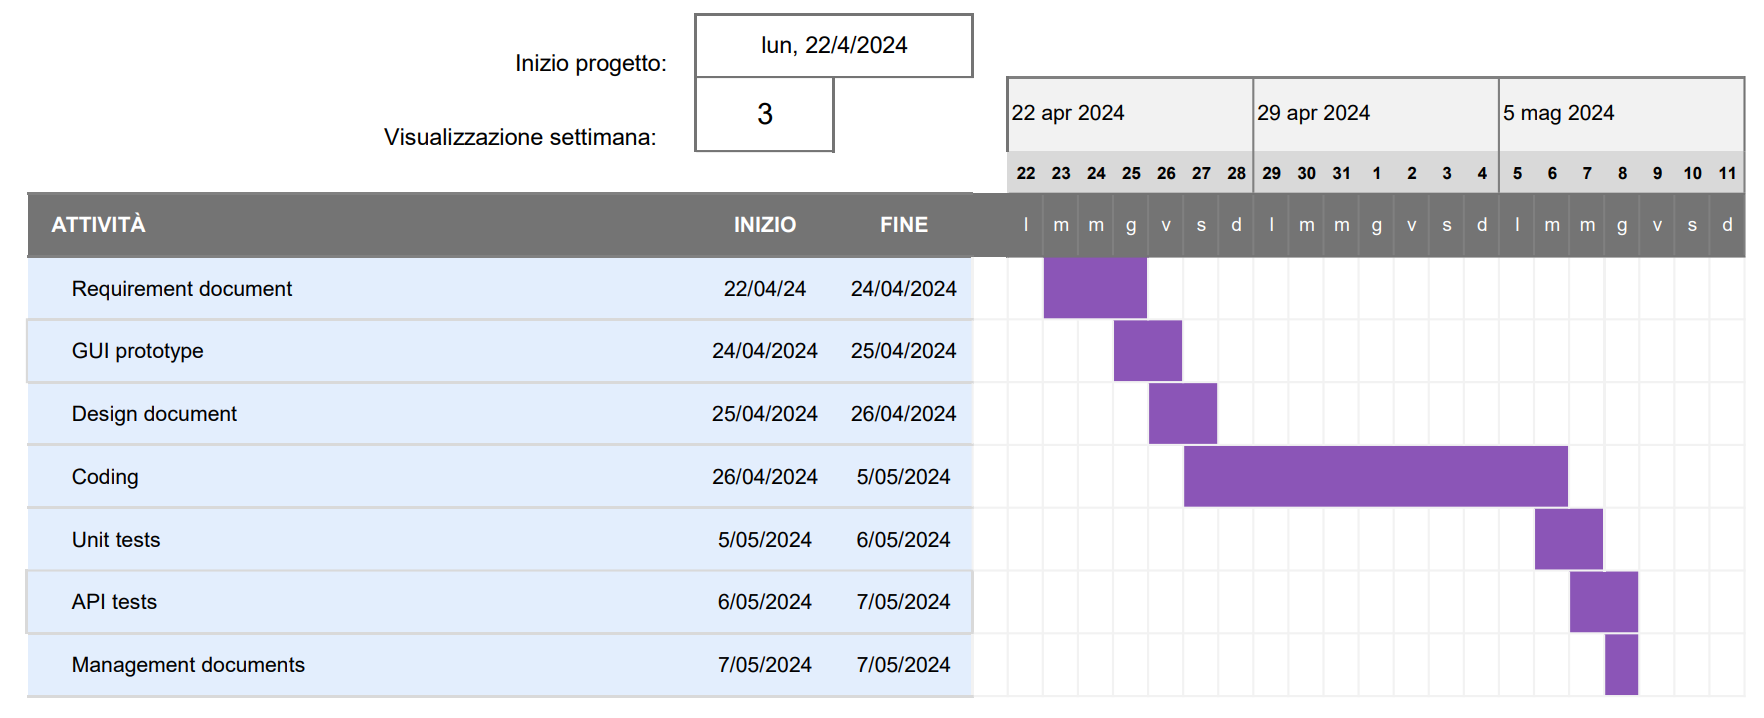
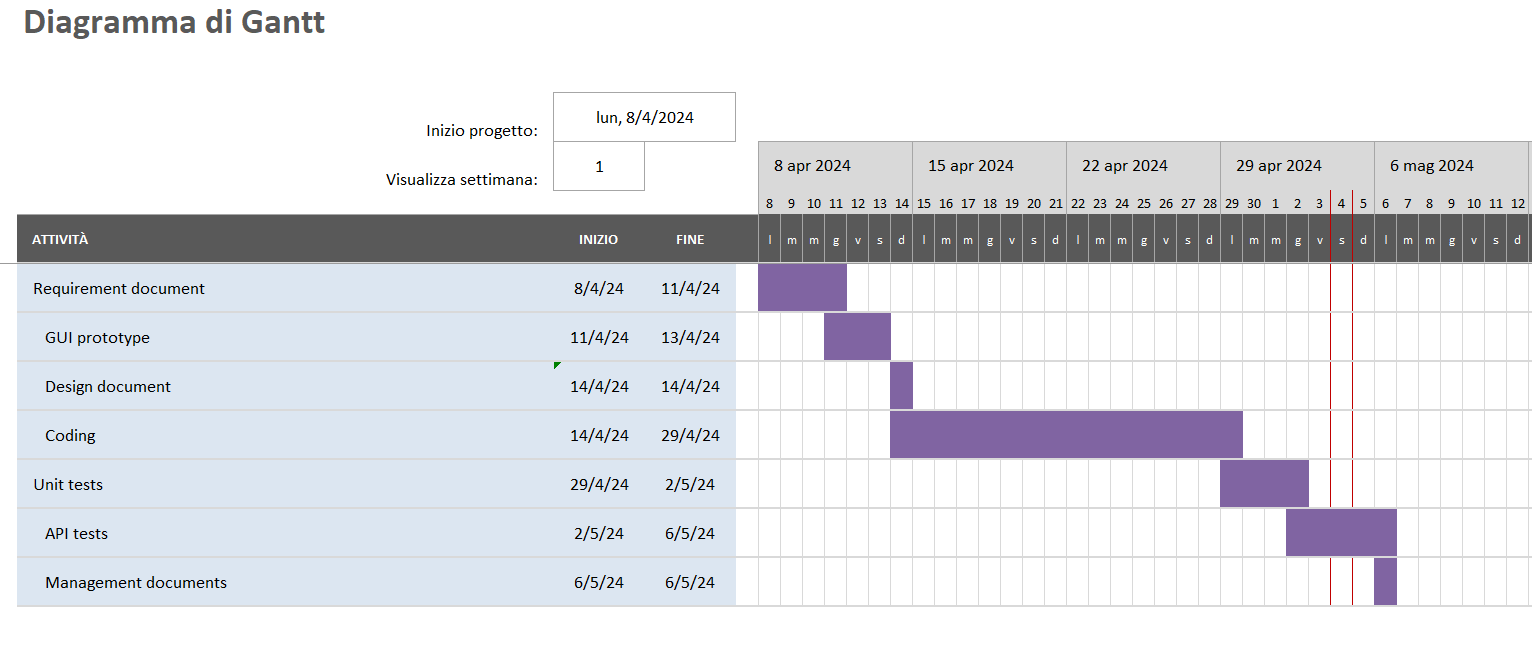
estimations finished

diff --git a/EstimationV2.md b/EstimationV2.md
@@ -15,7 +15,7 @@ Consider the EZElectronics  project in FUTURE version (as proposed by your team 
 | S = Estimated size of project, in LOC (= NC * A) |2250 |
 | E = Estimated effort, in person hours (here use productivity 10 LOC per person hour)  |            225                         |   
 | C = Estimated cost, in euro (here use 1 person hour cost = 30 euro) |6750 | 
-| Estimated calendar time, in calendar weeks (Assume team of 4 people, 8 hours per day, 5 days per week ) |       1,4 weeks             |               
+| Estimated calendar time, in calendar weeks (Assume team of 4 people, 8 hours per day, 5 days per week ) |       1,4 weeks (working days)            |               
 
 # Estimate by product decomposition
 ### 
@@ -36,20 +36,20 @@ Consider the EZElectronics  project in FUTURE version (as proposed by your team 
 
 | Activity name        | Estimated effort (person hours) |
 |----------------------------------------|----------------------------------|
-|**requirement document**|**20**|
-|ricerca dei requisiti|6|
+|**requirement document**|**22**|
+|ricerca dei requisiti|7|
 |trascrizione dei requisiti|8|
-|analisi dei requisiti|6|
-|**GUI prototype**|**10**|
+|analisi dei requisiti|7|
+|**GUI prototype**|**11**|
 |progettazione delle interfacce|3|
-|disegno delle interfacce|7|
+|disegno delle interfacce|8|
 |**design document**|**2**|
 |**code**|**120**|
 |scrittura del codice|80|
 |revisione del codice|40|
-|**unit tests**|**25**|
+|**unit tests**|**26**|
 |applicazione dei test|5|
-|analisi dei test|10|
+|analisi dei test|11|
 |risoluzione dei problemi rilevati dai test|10|
 |**api tests**|**25**|
 |applicazione dei test|5|
@@ -57,18 +57,18 @@ Consider the EZElectronics  project in FUTURE version (as proposed by your team 
 |risoluzione dei problemi rilevati dai test|10|
 |**management documents**|**2**|
 
-![image](diagramma-gantt-v2.png "diagramma di gantt")
+![image](diagramma-gantt-v2.png)
 
 
 # Summary
 
-Report here the results of the three estimation approaches. The  estimates may differ. Discuss here the possible reasons for the difference
+I dati seguenti sono stati stimati prendendo in considerazione l'effort impiegato dal gruppo per il presente progetto, mettendolo in relazione con le ore di lavoro effettuate. La differenza tra le diverse stime dipende dalla suddivisione dei compiti nei giorni lavorativi, contando eventuali problematiche e imprevisti.
 
 |             | Estimated effort                        |   Estimated duration |          
 | ----------- | ------------------------------- | ---------------|
-| estimate by size |225 ph| 5.5 weeks
-| estimate by product decomposition |204 ph| 5 weeks
-| estimate by activity decomposition |404 ph| 10 weeks
+| estimate by size |225 ph| 1,4 weeks (working days)
+| estimate by product decomposition |204 ph| 1,2 weeks (working days)
+| estimate by activity decomposition |206 ph| 1,2 weeks (working days)
 
 
 

diff --git a/EstimationV1.md b/EstimationV1.md
@@ -15,7 +15,7 @@ Consider the EZElectronics  project in CURRENT version (as given by the teachers
 | S = Estimated size of project, in LOC (= NC * A) | 1200 |
 | E = Estimated effort, in person hours (here use productivity 10 LOC per person hour)  |     120    |   
 | C = Estimated cost, in euro (here use 1 person hour cost = 30 euro) | 3600 | 
-| Estimated calendar time, in calendar weeks (Assume team of 4 people, 8 hours per day, 5 days per week ) | 0,75 weeks |               
+| Estimated calendar time, in calendar weeks (Assume team of 4 people, 8 hours per day, 5 days per week ) | 0,75 weeks (working days) |               
 
 # Estimate by product decomposition
 ### 
@@ -35,17 +35,17 @@ Consider the EZElectronics  project in CURRENT version (as given by the teachers
 
 | Activity name        | Estimated effort (person hours) |
 |----------------------------------------|----------------------------------|
-|**requirement document**|**12**|
-|ricerca dei requisiti|3|
+|**requirement document**|**14**|
+|ricerca dei requisiti|4|
 |trascrizione dei requisiti|6|
-|analisi dei requisiti|3|
+|analisi dei requisiti|4|
 |**GUI prototype**|**6**|
 |progettazione delle interfacce|2|
 |disegno delle interfacce|4|
 |**design document**|**2**|
-|**code**|**80**|
+|**code**|**85**|
 |scrittura del codice|60|
-|revisione del codice|20|
+|revisione del codice|25|
 |**unit tests**|**10**|
 |applicazione dei test|2|
 |analisi dei test|4|
@@ -56,18 +56,18 @@ Consider the EZElectronics  project in CURRENT version (as given by the teachers
 |risoluzione dei problemi rilevati dai test|4|
 |**management documents**|**1**|
 
-![image](diagramma-gantt.png "diagramma di gantt")
+![image](diagramma-gantt-v1.png)
 
 
 # Summary
 
-La differenza tra le diverse stime dipende dalle attività prese in considerazione nel calcolo delle person hours (nel primo calcolo è stato preso in considerazione solo il periodo di scrittura del codice). Inoltre dipende anche dalla suddivisione dei compiti nei giorni lavorativi, contando eventuali problematiche e imprevisti.
+I dati seguenti sono stati stimati prendendo in considerazione l'effort impiegato dal gruppo per il presente progetto, mettendolo in relazione con le ore di lavoro effettuate. La differenza tra le diverse stime dipende dalla suddivisione dei compiti nei giorni lavorativi, contando eventuali problematiche e imprevisti.
 
 |             | Estimated effort                        |   Estimated duration  |          
 | ----------- | ------------------------------- | ---------------|
-| estimate by size |120 ph | 3 weeks
-| estimate by product decomposition |121 ph| 3 weeks
-| estimate by activity decomposition |239 ph| 6 weeks
+| estimate by size |120 ph | 0,75 weeks (working days)
+| estimate by product decomposition |121 ph| 0,75 weeks (working days)
+| estimate by activity decomposition |128 ph| 0,75 weeks (working days)
 
 
 

diff --git a/RequirementsDocumentV2.md b/RequirementsDocumentV2.md
@@ -695,7 +695,6 @@ EZElectronics (read EaSy Electronics) is a software application designed to help
   4. **Pagamento**: Tipo, valore e data del pagamento riferito al carrello.
   5. **Recensione**: Descrizione della qualità di un prodotto creata da un cliente.
 
-
 # System Design
 
 ![System Design](./SystemDesignV2.png)
